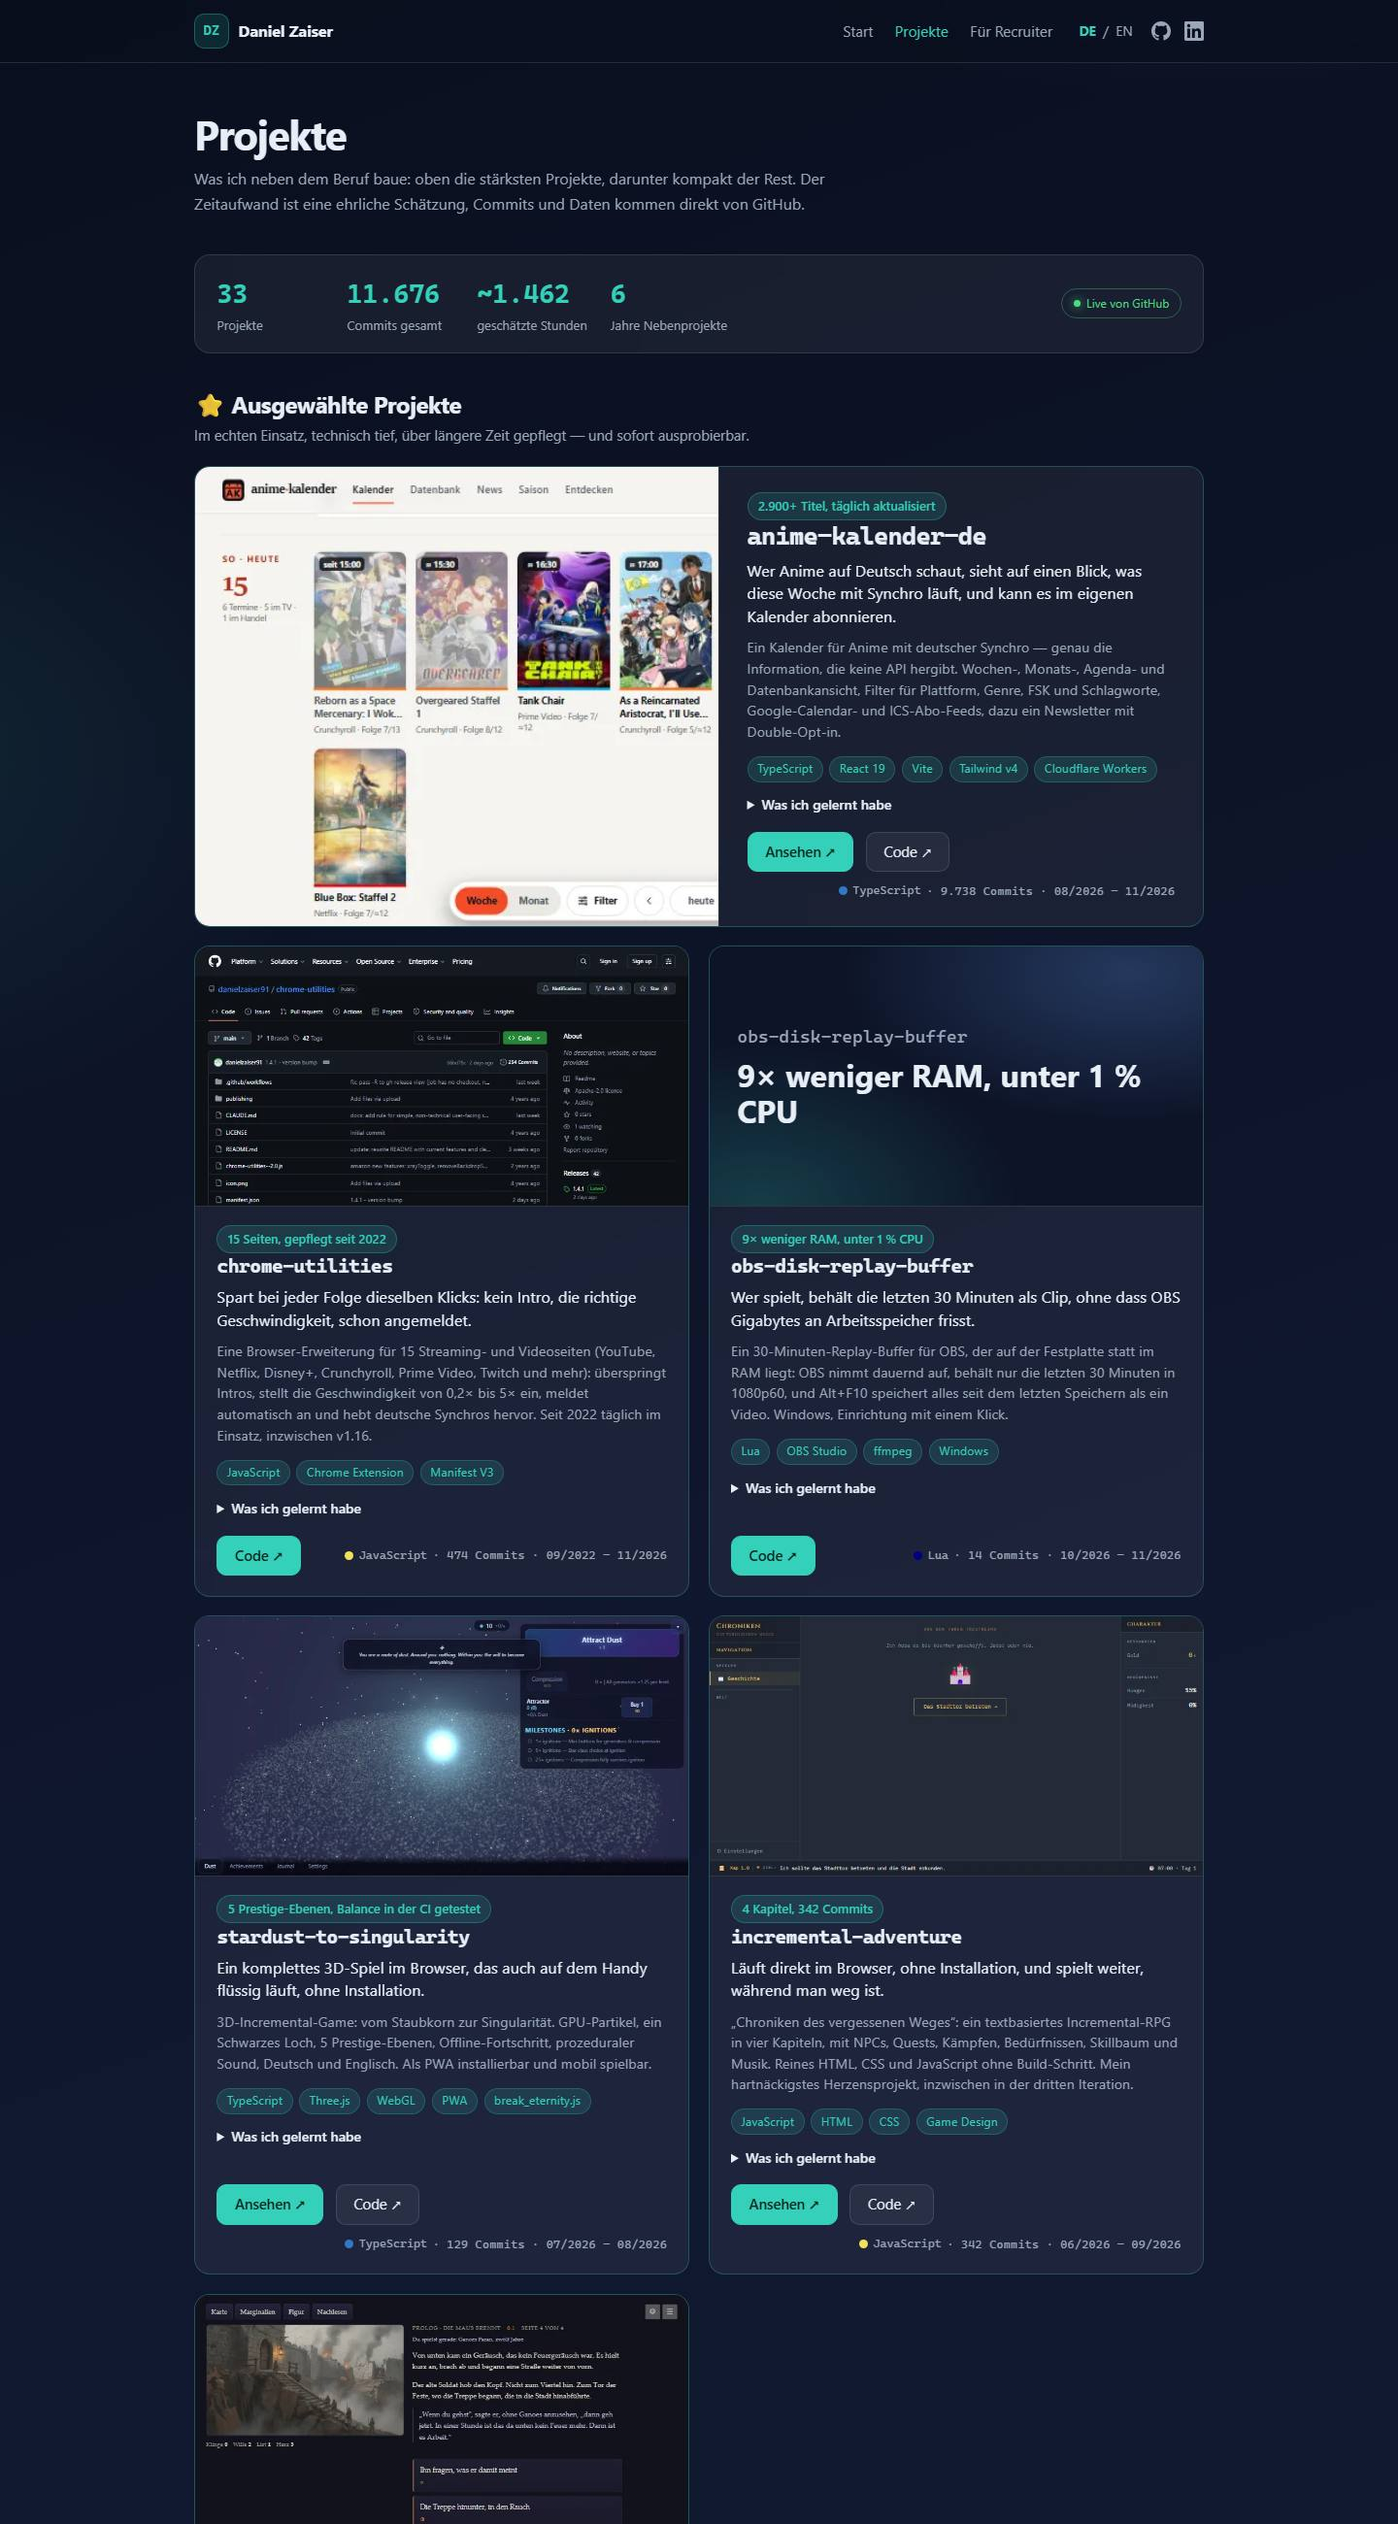
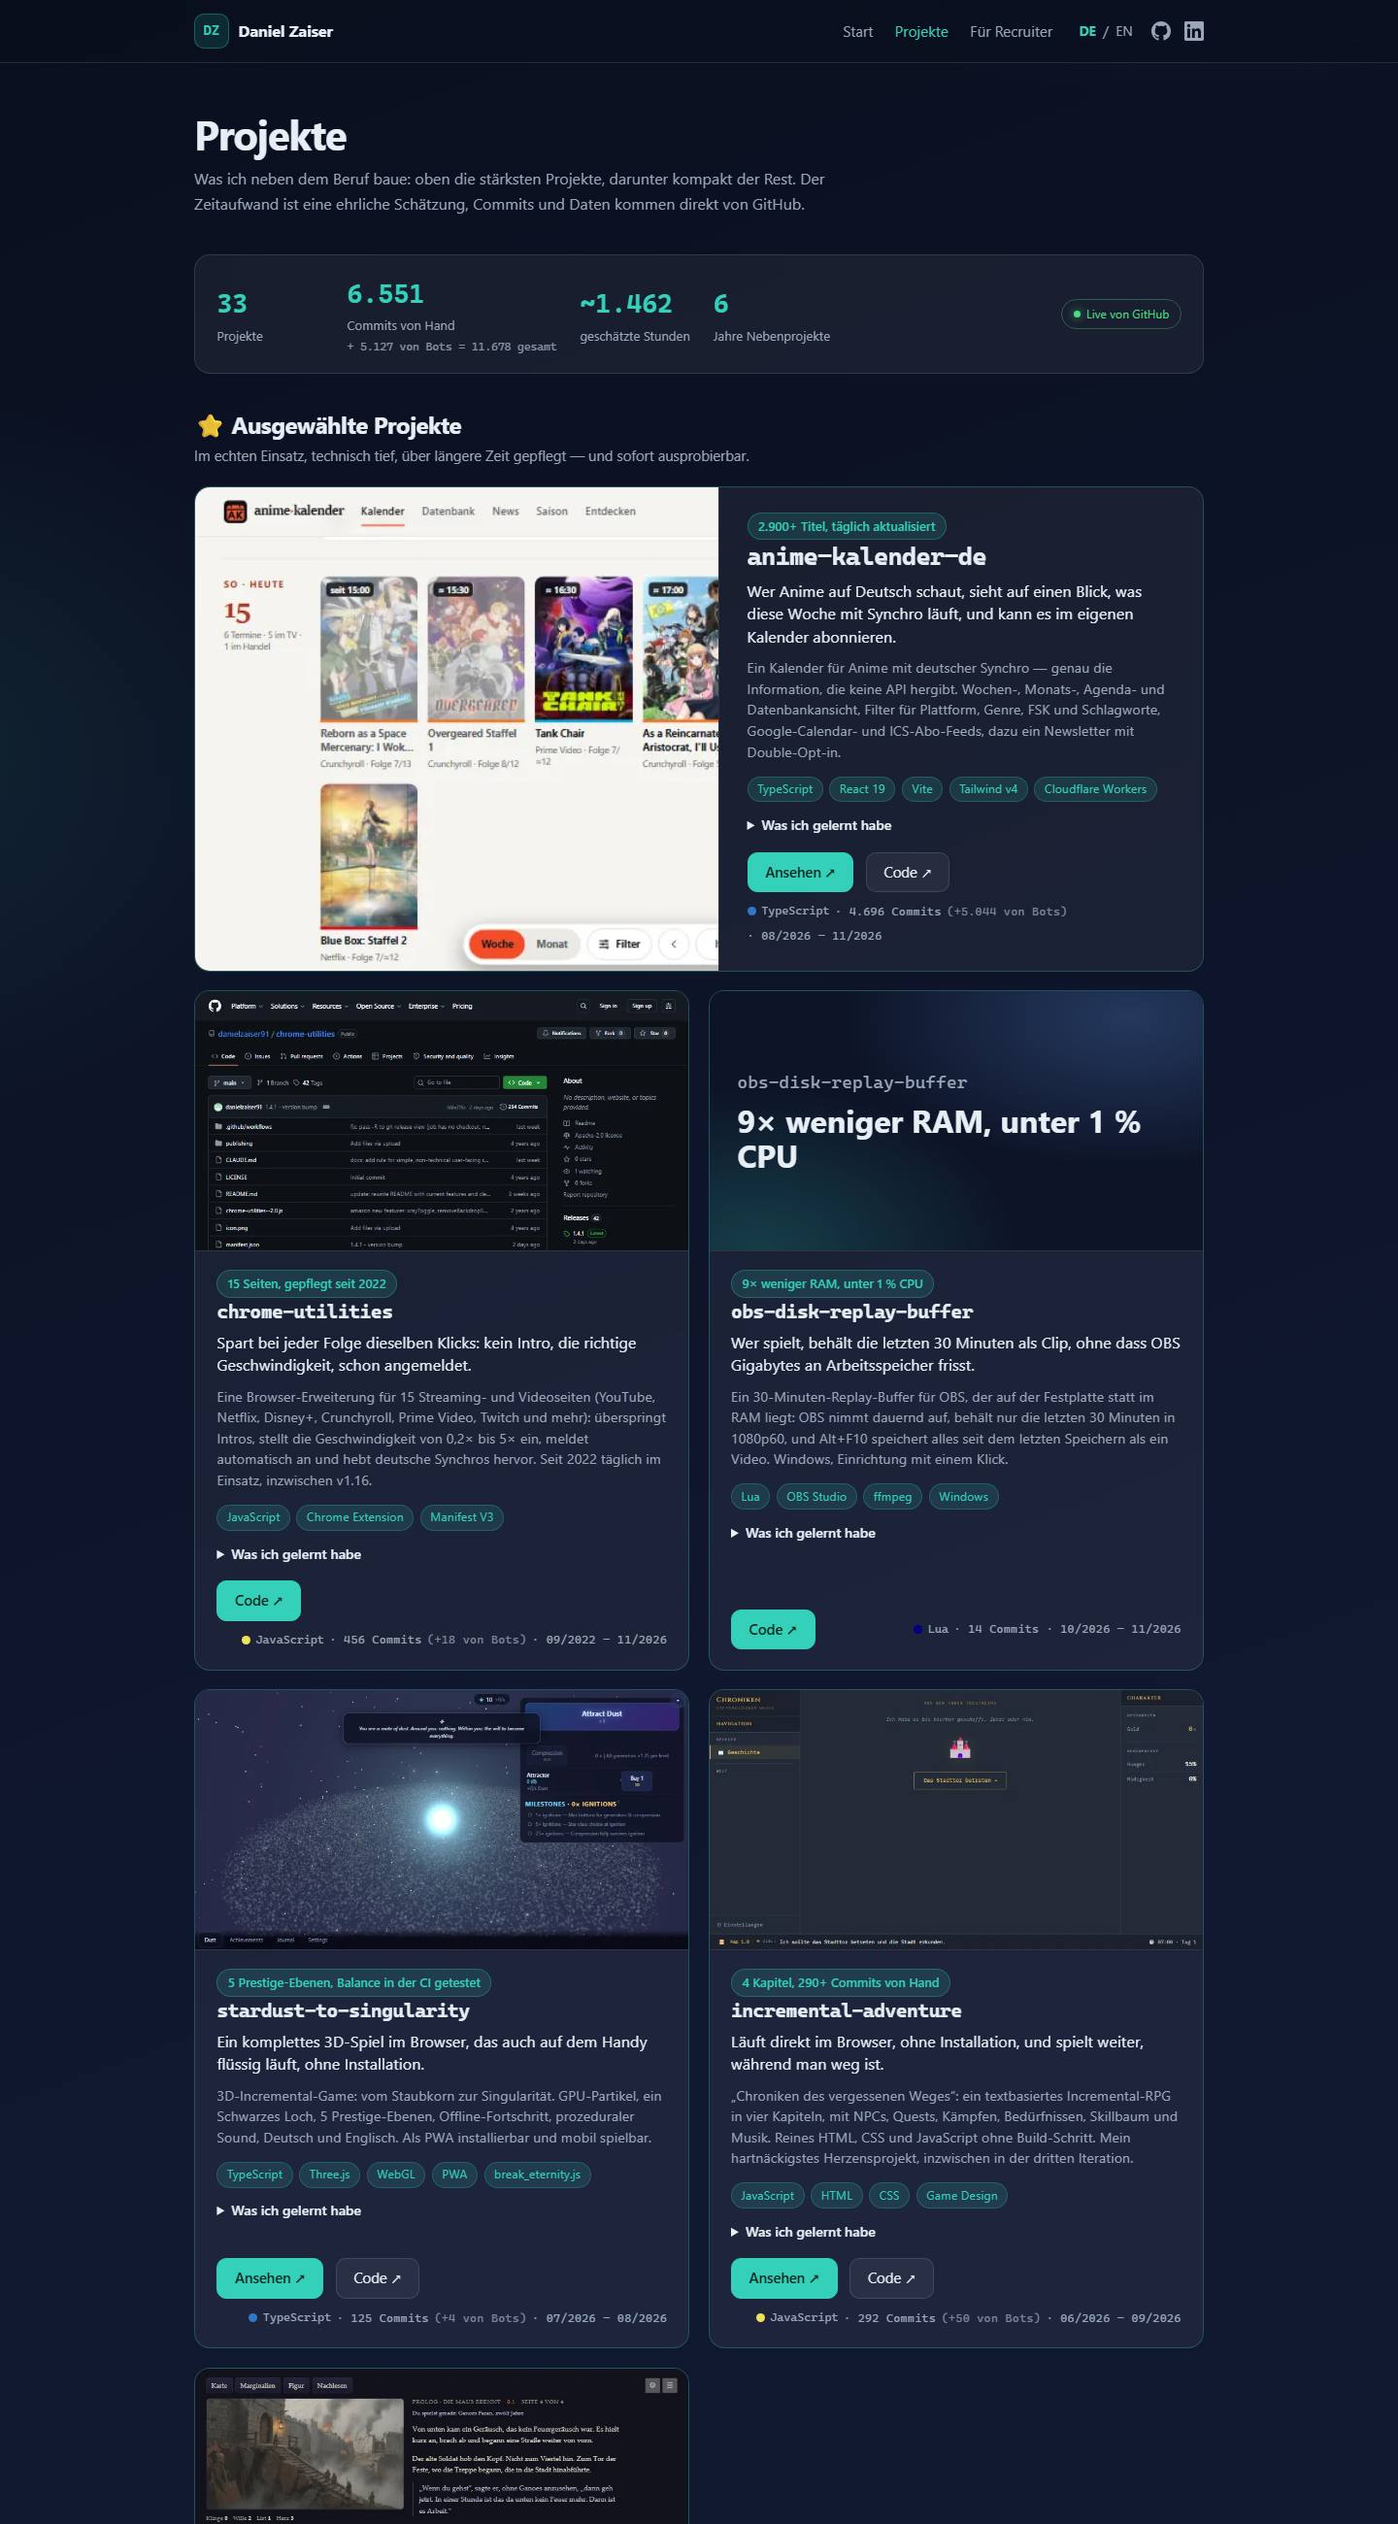
feat(projekte): Commits getrennt nach von Hand / von Bots / gesamt; Angular seit August 2018
- manualCommits-Schnappschuss (15.11.2026, nach Autor gezählt) für die 7 Repos mit
  Bot-Commits; "von Bots" = Live-Gesamtzahl minus Hand-Commits
- Übersicht: 6.551 von Hand, + 5.127 von Bots = 11.678 gesamt; Karten zeigen
  "4.696 Commits (+5.044 von Bots)"
- Startseite: Angular seit August 2018 (Text + Jahresberechnung)

Changed region(s): [[0.125, 0.0935, 0.875, 1.0], [0.7812, 0.6231, 0.8438, 0.6854], [0.7812, 0.0935, 0.8438, 0.1246]]

diff --git a/src/app/data/projects.ts b/src/app/data/projects.ts
@@ -8,6 +8,13 @@ export interface Project {
   description: LText;
   knowledge: LText;
   commits: number;
+  /**
+   * Commits made by hand (me, or an AI agent on my behalf) — only set for repos where bots
+   * (GitHub Actions, data/version bots) also commit. Snapshot from 2026-11-15, counted by
+   * author on GitHub. The page derives "automated" as live total minus this, so ongoing bot
+   * commits never inflate the hand-made count.
+   */
+  manualCommits?: number;
   /** YYYY-MM of first commit / repo creation. */
   started: string;
   /** YYYY-MM of last push. */
@@ -108,7 +115,8 @@ export const PROJECTS: Project[] = [
       en: 'Building a dataset nobody publishes: German dub times exist only inside a JavaScript-rendered streaming calendar and one provider API that happens to expose a language code per episode. Everything derived is marked as derived, and a claimed date with no evidence in the scanned window gets dropped rather than shown. Also: hash routing cannot carry a link preview, so every release gets a real prerendered page — and the address bar rewrites itself to it.',
       de: 'Einen Datenbestand aufbauen, den niemand veröffentlicht: Deutsche Sendezeiten stehen nur in einem JS-gerenderten Streaming-Kalender und in einer Anbieter-Schnittstelle, die je Folge den Sprachcode ausweist. Abgeleitetes wird als abgeleitet gekennzeichnet, und ein behaupteter Termin ohne Beleg im abgesuchten Zeitraum fliegt raus, statt angezeigt zu werden. Außerdem: Hash-Routing kann keine Linkvorschau tragen — deshalb bekommt jedes Release eine echte vorgerenderte Seite, und die Adressleiste schreibt sich selbst darauf um.',
     },
-    commits: 9738,
+    commits: 9740,
+    manualCommits: 4696,
     started: '2026-08',
     lastTouched: '2026-11',
     estHours: 200,
@@ -179,6 +187,7 @@ export const PROJECTS: Project[] = [
       de: 'Chrome-Extension-APIs, Manifest-V3-Migration, Content Scripts gegen 15 Seiten, die ihr Markup ohne Vorwarnung ändern, Langzeitpflege eines eigenen Toolsets.',
     },
     commits: 474,
+    manualCommits: 456,
     started: '2022-09',
     lastTouched: '2026-11',
     estHours: 250,
@@ -518,6 +527,7 @@ export const PROJECTS: Project[] = [
       de: 'Game Loops, Big-Number-Mathematik, Savegame-Systeme, Balancing und Motivation über viele Iterationen halten.',
     },
     commits: 342,
+    manualCommits: 292,
     started: '2026-06',
     lastTouched: '2026-09',
     estHours: 150,
@@ -525,7 +535,7 @@ export const PROJECTS: Project[] = [
     preview: true,
     highlight: true,
     featured: {
-      metric: { en: '4 chapters, 342 commits', de: '4 Kapitel, 342 Commits' },
+      metric: { en: '4 chapters, 290+ commits by hand', de: '4 Kapitel, 290+ Commits von Hand' },
       benefit: {
         en: 'Plays straight in the browser, no install, and keeps going while you are away.',
         de: 'Läuft direkt im Browser, ohne Installation, und spielt weiter, während man weg ist.',
@@ -545,6 +555,7 @@ export const PROJECTS: Project[] = [
       de: 'Three.js-Szenen und GPU-Partikel, WebGL-Performance auf Mobilgeräten, Spielmathematik mit Prestige-Ebenen und eine kopflose Balance-Simulation, die in der CI läuft.',
     },
     commits: 129,
+    manualCommits: 125,
     started: '2026-07',
     lastTouched: '2026-08',
     estHours: 60,
@@ -591,6 +602,7 @@ export const PROJECTS: Project[] = [
       de: 'PWA-Installierbarkeit, Device-Orientation-APIs, Design für einen Raum voller Mitspieler.',
     },
     commits: 60,
+    manualCommits: 58,
     started: '2026-06',
     lastTouched: '2026-08',
     estHours: 30,
@@ -610,6 +622,7 @@ export const PROJECTS: Project[] = [
       de: 'Story-getriebene Spielstruktur, TypeScript-Modellierung von Spielinhalten.',
     },
     commits: 35,
+    manualCommits: 28,
     started: '2026-06',
     lastTouched: '2026-08',
     estHours: 20,
@@ -629,6 +642,7 @@ export const PROJECTS: Project[] = [
       de: 'Godot-Engine, GDScript, Szenen-Komposition, Web-Export eines Game-Engine-Projekts.',
     },
     commits: 20,
+    manualCommits: 18,
     started: '2026-06',
     lastTouched: '2026-08',
     estHours: 15,

diff --git a/src/app/core/translations.ts b/src/app/core/translations.ts
@@ -15,7 +15,7 @@ export const TRANSLATIONS: Record<Lang, Record<string, string>> = {
     // Home
     'home.hello': 'Hi, I’m',
     'home.role': 'Senior Software Developer',
-    'home.tagline': 'Frontend specialist — working professionally with Angular since July 2018.',
+    'home.tagline': 'Frontend specialist — working professionally with Angular since August 2018.',
     'home.pitch':
       'I build maintainable, fast web applications for a living — and playful experiments for fun. ' +
       'Currently migrating enterprise legacy systems to modern Angular at Funk Gruppe in Hamburg.',
@@ -61,7 +61,12 @@ export const TRANSLATIONS: Record<Lang, Record<string, string>> = {
     'projects.repo.private.tooltip': 'This repository is private — the code isn’t publicly browsable.',
     'projects.demo': 'Live demo',
     'projects.summary.projects': 'projects',
-    'projects.summary.commits': 'commits total',
+    'projects.summary.commits': 'commits by hand',
+    'projects.summary.auto': 'by bots',
+    'projects.summary.total': 'total',
+    'projects.commits.auto': 'by bots',
+    'projects.commits.auto.tooltip':
+      'Automated commits (data updates, version bumps via GitHub Actions and bots) are counted separately from hand-made ones.',
     'projects.summary.hours': 'estimated hours',
     'projects.summary.years': 'years of side projects',
     'projects.archive.title': 'The old website',
@@ -129,7 +134,7 @@ export const TRANSLATIONS: Record<Lang, Record<string, string>> = {
     // Home
     'home.hello': 'Hallo, ich bin',
     'home.role': 'Senior Software-Entwickler',
-    'home.tagline': 'Frontend-Spezialist — professionell mit Angular unterwegs seit Juli 2018.',
+    'home.tagline': 'Frontend-Spezialist — professionell mit Angular unterwegs seit August 2018.',
     'home.pitch':
       'Beruflich baue ich wartbare, schnelle Webanwendungen — privat verspielte Experimente. ' +
       'Aktuell migriere ich bei der Funk Gruppe in Hamburg Enterprise-Altsysteme in eine moderne Angular-Welt.',
@@ -175,7 +180,12 @@ export const TRANSLATIONS: Record<Lang, Record<string, string>> = {
     'projects.repo.private.tooltip': 'Dieses Repository ist privat — der Code ist nicht öffentlich einsehbar.',
     'projects.demo': 'Live-Demo',
     'projects.summary.projects': 'Projekte',
-    'projects.summary.commits': 'Commits gesamt',
+    'projects.summary.commits': 'Commits von Hand',
+    'projects.summary.auto': 'von Bots',
+    'projects.summary.total': 'gesamt',
+    'projects.commits.auto': 'von Bots',
+    'projects.commits.auto.tooltip':
+      'Automatische Commits (Daten-Updates, Versionssprünge per GitHub Actions und Bots) zähle ich getrennt von denen, die von Hand entstanden sind.',
     'projects.summary.hours': 'geschätzte Stunden',
     'projects.summary.years': 'Jahre Nebenprojekte',
     'projects.archive.title': 'Die alte Webseite',

diff --git a/src/app/pages/projects/projects.html b/src/app/pages/projects/projects.html
@@ -7,9 +7,10 @@
       <span class="num">{{ projectCount }}</span>
       <span class="lbl">{{ i18n.t('projects.summary.projects') }}</span>
     </div>
-    <div class="sum">
-      <span class="num">{{ formatNumber(totalCommits()) }}</span>
+    <div class="sum" [title]="i18n.t('projects.commits.auto.tooltip')">
+      <span class="num">{{ formatNumber(totalManual()) }}</span>
       <span class="lbl">{{ i18n.t('projects.summary.commits') }}</span>
+      <span class="sub">+ {{ formatNumber(totalAuto()) }} {{ i18n.t('projects.summary.auto') }} = {{ formatNumber(totalCommits()) }} {{ i18n.t('projects.summary.total') }}</span>
     </div>
     <div class="sum">
       <span class="num">~{{ formatNumber(totalHours) }}</span>
@@ -23,6 +24,14 @@
       <span class="live-dot"></span>{{ i18n.t(liveLoading() ? 'projects.live.syncing' : 'projects.live.on') }}
     </div>
   </div>
+
+  <!-- "4.696 Commits (+5.044 von Bots)": hand-made first, automated ones only where they exist. -->
+  <ng-template #commitInfo let-p>
+    {{ formatNumber(manualOf(p)) }} {{ i18n.t('projects.commits') }}
+    @if (autoOf(p) > 0) {
+      <span class="auto" [title]="i18n.t('projects.commits.auto.tooltip')">(+{{ formatNumber(autoOf(p)) }} {{ i18n.t('projects.commits.auto') }})</span>
+    }
+  </ng-template>
 
   <!-- ===== Tier 1: the strongest projects, big ===== -->
   <section aria-labelledby="featured-title">
@@ -79,7 +88,7 @@
               }
               <span class="meta">
                 <span class="lang"><span class="lang-dot" [style.background]="langColor(p)"></span>{{ langOf(p) }}</span>
-                · {{ formatNumber(commitsOf(p)) }} {{ i18n.t('projects.commits') }} · {{ span(p) }}
+                · <ng-container *ngTemplateOutlet="commitInfo; context: { $implicit: p }" /> · {{ span(p) }}
               </span>
             </footer>
           </div>
@@ -103,7 +112,7 @@
           @if (isFresh(p)) {
             <span class="fresh-dot" [title]="i18n.t('projects.fresh')"></span>
           }
-          {{ formatNumber(commitsOf(p)) }} {{ i18n.t('projects.commits') }} · {{ span(p) }}
+          <ng-container *ngTemplateOutlet="commitInfo; context: { $implicit: p }" /> · {{ span(p) }}
         </span>
         <span class="item-links">
           @if (p.demo) {

diff --git a/src/app/pages/projects/projects.ts b/src/app/pages/projects/projects.ts
@@ -61,6 +61,17 @@ export class Projects {
     return this.live.stats()[p.name]?.commits ?? p.commits;
   }
 
+  /** Commits made by hand; bot commits (see Project.manualCommits) are counted separately. */
+  protected manualOf(p: Project): number {
+    const total = this.commitsOf(p);
+    return Math.min(p.manualCommits ?? total, total);
+  }
+
+  /** Automated commits (data/version bots) = live total minus the hand-made snapshot. */
+  protected autoOf(p: Project): number {
+    return this.commitsOf(p) - this.manualOf(p);
+  }
+
   protected startedOf(p: Project): string {
     return this.live.stats()[p.name]?.started ?? p.started;
   }
@@ -84,6 +95,8 @@ export class Projects {
   // ===== Summary strip =====
   protected readonly projectCount = PROJECTS.length;
   protected readonly totalCommits = computed(() => PROJECTS.reduce((sum, p) => sum + this.commitsOf(p), 0));
+  protected readonly totalManual = computed(() => PROJECTS.reduce((sum, p) => sum + this.manualOf(p), 0));
+  protected readonly totalAuto = computed(() => this.totalCommits() - this.totalManual());
   protected readonly totalHours = PROJECTS.reduce((sum, p) => sum + p.estHours, 0);
   protected readonly yearsActive = computed(
     () => new Date().getFullYear() - Math.min(...PROJECTS.map((p) => +this.startedOf(p).slice(0, 4))),

diff --git a/src/app/data/games.ts b/src/app/data/games.ts
@@ -122,7 +122,7 @@ export const GAMES: Game[] = [
     playtime: '20–50+ Std.',
     situation: 'Für lange Abende, den Zweitmonitor und alle, die „nur noch ein Upgrade“ sagen.',
     description:
-      '„Chroniken des vergessenen Weges“: ein textbasiertes Incremental-RPG in vier Kapiteln, mit NPCs, Quests, Kämpfen, Bedürfnissen, Skillbaum und Musik. Mein Herzensprojekt (über 340 Commits) — läuft im Browser und auf dem Handy und spielt nebenbei weiter.',
+      '„Chroniken des vergessenen Weges“: ein textbasiertes Incremental-RPG in vier Kapiteln, mit NPCs, Quests, Kämpfen, Bedürfnissen, Skillbaum und Musik. Mein Herzensprojekt (fast 300 Commits) — läuft im Browser und auf dem Handy und spielt nebenbei weiter.',
     tags: ['Idle', 'Text-RPG', 'Quests', 'Browser & Handy'],
     featured: true,
     preview: shot('incremental-adventure'),

diff --git a/src/app/pages/home/home.ts b/src/app/pages/home/home.ts
@@ -15,9 +15,9 @@ export class Home {
   protected readonly linkedin = LINKEDIN_URL;
   protected readonly github = GITHUB_URL;
 
-  /** Professional Angular experience, counted from July 2018. */
+  /** Professional Angular experience, counted from August 2018. */
   protected readonly yearsOfAngular = Math.floor(
-    (Date.now() - new Date(2018, 6, 1).getTime()) / (365.25 * 24 * 3600 * 1000),
+    (Date.now() - new Date(2018, 7, 1).getTime()) / (365.25 * 24 * 3600 * 1000),
   );
   protected readonly repoCount = PROJECTS.length;
 

diff --git a/src/app/pages/projects/projects.scss b/src/app/pages/projects/projects.scss
@@ -22,7 +22,20 @@
       color: var(--text-2);
       font-size: 0.82rem;
     }
+
+    .sub {
+      margin-top: 0.15rem;
+      color: var(--text-2);
+      font-size: 0.72rem;
+      font-family: var(--mono);
+      opacity: 0.85;
+    }
   }
+}
+
+.auto {
+  opacity: 0.75;
+  cursor: help;
 }
 
 .live-indicator {
